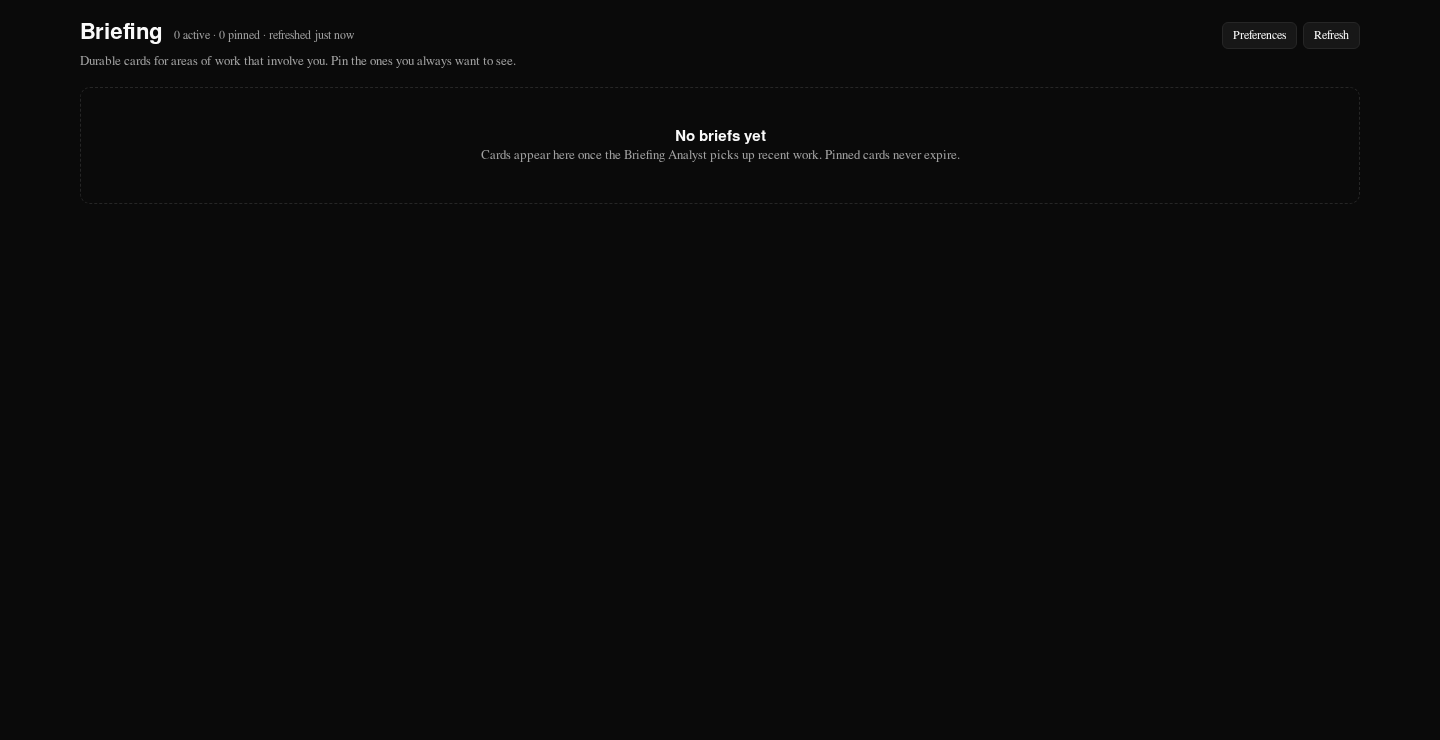
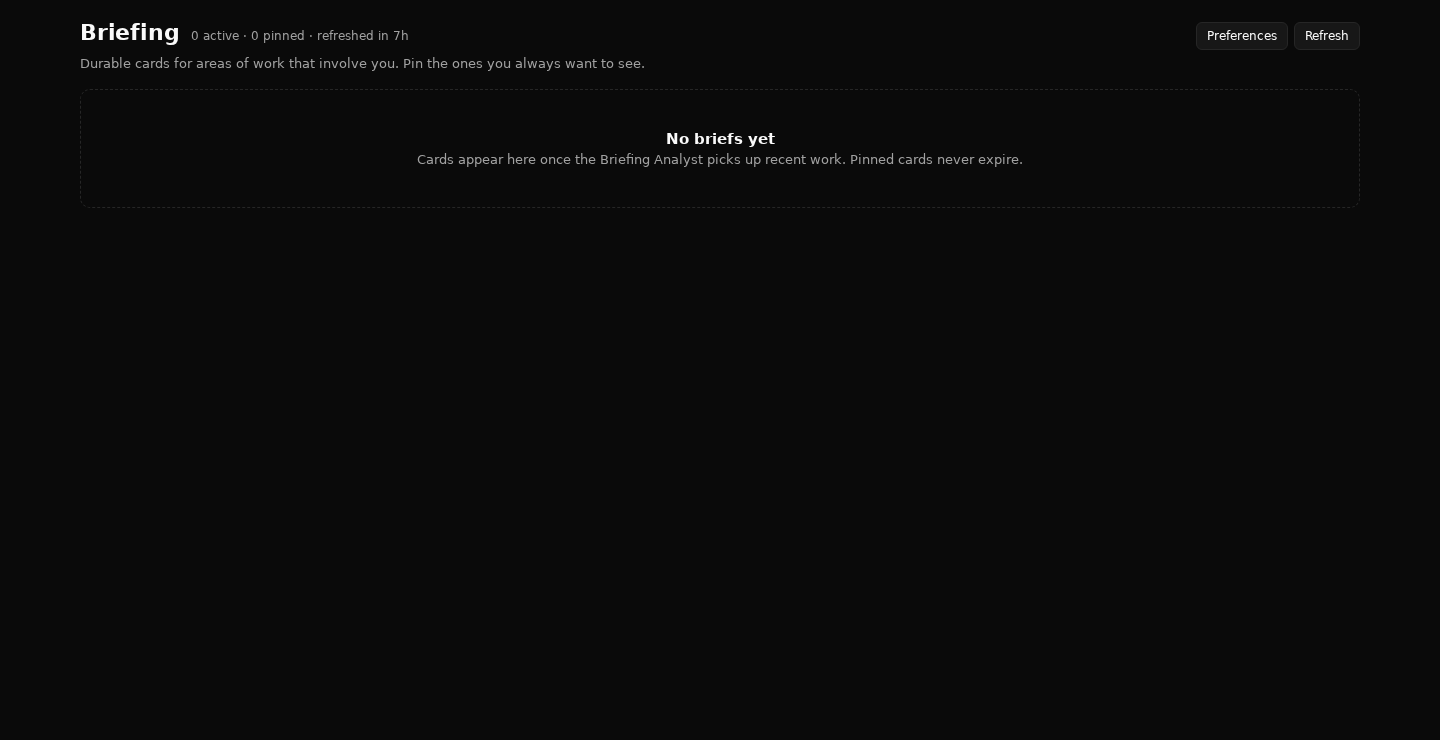
fix(briefs): make mobile section filter actually hide sections
The injected responsive stylesheet for the Briefing page tried to hide
section headers and non-active sections at <=700px, but the inline
`display: flex` on <section data-briefs-section> and its <header> beat
the attribute-selector rules on specificity. The result was that on a
real 390px render the MobileTabs toggle did nothing — every section
stayed visible.

Add `!important` to the two media-query rules so they win against the
inline styles, plus a small mobile reflow rule that drops the page-meta
line to its own row instead of orphaning the timestamp.

Also rebuild the screenshot fixture to mount the real <BriefingPage>
component (via the same SDK mock pattern the brief-card vitest already
uses) instead of hand-writing the page shell. The previous fixture
re-implemented the layout in static HTML and never rendered MobileTabs
or Legend, which masked the specificity bug and produced PNGs that
didn't match what a user actually sees.

Add briefing-page.spec.tsx as a regression guard for the chrome the
screenshot fixture exercises: MobileTabs sticky bar, Legend, the
data-mobile-hidden attribute on non-active sections, and the new header
data attributes.

Re-captured desktop, mobile, and empty-state PNGs against the real React
tree. The mobile shot now shows the All / Needs you / Live / Done tab
bar and only the active filter section.

Refs PAP-9963.

Changed region(s): [[0.0625, 0.0311, 0.4375, 0.0932], [0.3125, 0.1554, 0.6875, 0.2176], [0.8438, 0.0311, 0.9375, 0.0622]]

diff --git a/packages/plugins/plugin-briefs/tests/ui/screenshots.spec.tsx b/packages/plugins/plugin-briefs/tests/ui/screenshots.spec.tsx
@@ -5,14 +5,41 @@
  *
  * Skipped by default — set `BRIEFS_CAPTURE_SCREENSHOTS=1` to opt in.
  *
- * The flag avoids dragging Playwright into the regular fast unit-test run while
- * still letting CI / agents capture deterministic fixtures from the same view
- * components the host renders.
+ * Mounts the real `<BriefingPage>` component (the same React tree the host
+ * renders) so the captured PNGs reflect MobileTabs, Legend, and the live
+ * responsive CSS — not a hand-rolled approximation. The Paperclip plugin SDK
+ * is mocked so `usePluginData("page", …)` returns the gallery fixture.
  */
 import path from "node:path";
 import fs from "node:fs/promises";
 import { fileURLToPath, pathToFileURL } from "node:url";
 import { afterAll, describe, expect, it, vi } from "vitest";
+
+import type { BriefCard, BriefPreferences } from "../../src/contracts.js";
+import { gallery } from "./fixtures.js";
+
+type PageData = {
+  cards: BriefCard[];
+  preferences: BriefPreferences;
+  fetchedAt: string;
+};
+
+const defaultPreferences: BriefPreferences = {
+  companyId: "company-1",
+  userId: "user-1",
+  cadence: "daily",
+  retentionDays: 14,
+  doneRetentionHours: 48,
+  staleAfterDays: 7,
+  maxUnpinnedCards: 24,
+  scope: "user",
+};
+
+let mockPageData: PageData = {
+  cards: [],
+  preferences: defaultPreferences,
+  fetchedAt: "2026-05-22T10:00:00.000Z",
+};
 
 vi.mock("@paperclipai/plugin-sdk/ui", () => {
   return {
@@ -22,7 +49,12 @@ vi.mock("@paperclipai/plugin-sdk/ui", () => {
       linkProps: (to: string) => ({ href: to, onClick: () => {} }),
     }),
     usePluginAction: () => vi.fn(async () => ({ ok: true })),
-    usePluginData: () => ({ data: null, loading: false, error: null, refresh: () => {} }),
+    usePluginData: (key: string) => {
+      if (key === "page") {
+        return { data: mockPageData, loading: false, error: null, refresh: () => {} };
+      }
+      return { data: null, loading: false, error: null, refresh: () => {} };
+    },
     usePluginToast: () => vi.fn(),
     useHostLocation: () => ({ pathname: "/PAP/briefs", search: "", hash: "" }),
     usePluginStream: () => ({ events: [], lastEvent: null, connecting: false, connected: false, error: null, close: () => {} }),
@@ -30,9 +62,7 @@ vi.mock("@paperclipai/plugin-sdk/ui", () => {
 });
 
 import { renderToStaticMarkup } from "react-dom/server";
-import { BriefCardView } from "../../src/ui/app.js";
-import { groupCardsIntoSections } from "../../src/ui/view-model.js";
-import { gallery } from "./fixtures.js";
+import { BriefingPage } from "../../src/ui/app.js";
 
 const ENABLED = process.env.BRIEFS_CAPTURE_SCREENSHOTS === "1";
 
@@ -44,72 +74,53 @@ const outDir = path.resolve(repoRoot, "docs/pr-screenshots/pap-9963");
 const desktopWidth = 1440;
 const mobileWidth = 390;
 
-function staticPage({ cards, viewportWidth }: { cards: ReturnType<typeof gallery>; viewportWidth: number }) {
+const hostContext = {
+  companyId: "company-1",
+  companyPrefix: "PAP",
+  projectId: null,
+  entityId: null,
+  entityType: null,
+  userId: "user-1",
+} as const;
+
+function renderPageHtml({ cards, viewportWidth }: { cards: BriefCard[]; viewportWidth: number }): string {
+  mockPageData = { cards, preferences: defaultPreferences, fetchedAt: "2026-05-22T10:00:00.000Z" };
   const isMobile = viewportWidth < 700;
-  const sections = groupCardsIntoSections(cards);
-  const visibleSections = isMobile
-    ? sections.filter((section) => section.cards.length > 0).slice(0, 1).concat(sections.slice(1))
-    : sections;
-  const active = cards.filter((c) => !c.hidden);
-  const pinned = active.filter((c) => c.pinned).length;
+  // BriefingPage injects the responsive stylesheet via document.head on mount.
+  // SSR doesn't run that side effect, so we inline the same rules in the page
+  // <style>. Keep these in sync with the rules in src/ui/app.tsx.
+  const inlineCss = `
+    :root {
+      --background: oklch(0.145 0 0);
+      --foreground: oklch(0.985 0 0);
+      --card: oklch(0.205 0 0);
+      --border: oklch(0.269 0 0);
+      --muted-foreground: oklch(0.708 0 0);
+      --primary: oklch(0.985 0 0);
+      --primary-foreground: oklch(0.205 0 0);
+      --secondary: oklch(0.269 0 0);
+      --accent: oklch(0.269 0 0);
+    }
+    html, body { background: var(--background); color: var(--foreground); margin: 0; min-height: 100vh; }
+    body { font-family: ui-sans-serif, system-ui, -apple-system, sans-serif; }
+    a { color: inherit; }
+    @media (max-width: 700px) {
+      [data-briefs-mobile-tabs] { display: flex !important; }
+      [data-briefs-section] > header { display: none !important; }
+      [data-briefs-section][data-mobile-hidden="true"] { display: none !important; }
+      [data-briefs-grid] { grid-template-columns: 1fr !important; }
+      [data-briefs-page-header] > [data-briefs-page-meta] { flex-basis: 100% !important; order: 2 !important; }
+    }
+  `;
+  const body = renderToStaticMarkup(<BriefingPage context={hostContext as never} />);
   return `<!doctype html>
   <html lang="en">
     <head>
       <meta charset="utf-8" />
       <title>Briefing — ${isMobile ? "mobile" : "desktop"}</title>
-      <style>
-        :root {
-          --background: oklch(0.145 0 0);
-          --foreground: oklch(0.985 0 0);
-          --card: oklch(0.205 0 0);
-          --border: oklch(0.269 0 0);
-          --muted-foreground: oklch(0.708 0 0);
-          --primary: oklch(0.985 0 0);
-          --primary-foreground: oklch(0.205 0 0);
-          --secondary: oklch(0.269 0 0);
-          --accent: oklch(0.269 0 0);
-        }
-        html, body { background: var(--background); color: var(--foreground); margin: 0; min-height: 100vh; }
-        body { font-family: ui-sans-serif, system-ui, -apple-system, sans-serif; }
-        a { color: inherit; }
-        @media (max-width: 700px) {
-          [data-briefs-mobile-tabs] { display: flex !important; }
-          [data-briefs-section] > header { display: none; }
-          [data-briefs-section][data-mobile-hidden="true"] { display: none; }
-          [data-briefs-grid] { grid-template-columns: 1fr !important; }
-        }
-      </style>
+      <style>${inlineCss}</style>
     </head>
-    <body>
-      <div style="font-family: ui-sans-serif, system-ui, -apple-system, sans-serif; color: var(--foreground); padding: 20px clamp(12px, 4vw, 32px); max-width: 1280px; margin: 0 auto; min-height: 100vh;">
-        <header style="display: flex; flex-wrap: wrap; align-items: baseline; gap: 12px; margin-bottom: 6px;">
-          <h1 style="margin: 0; font-size: 22px; font-weight: 600;">Briefing</h1>
-          <div style="flex: 1; min-width: 0; font-size: 12px; color: var(--muted-foreground);">${active.length} active · ${pinned} pinned · refreshed just now</div>
-          <div style="display: flex; gap: 6px; align-items: center;">
-            <button style="padding: 6px 10px; border-radius: 6px; border: 1px solid var(--border); background: var(--card); color: var(--foreground); font-size: 12px;">Preferences</button>
-            <button style="padding: 6px 10px; border-radius: 6px; border: 1px solid var(--border); background: var(--card); color: var(--foreground); font-size: 12px;">Refresh</button>
-          </div>
-        </header>
-        <p style="margin: 0; margin-bottom: 18px; font-size: 13px; color: var(--muted-foreground);">Durable cards for areas of work that involve you. Pin the ones you always want to see.</p>
-        ${active.length === 0
-          ? `<div data-briefs-empty style="padding: 40px 24px; border: 1px dashed var(--border); border-radius: 10px; text-align: center; color: var(--muted-foreground);">
-              <div style="font-size: 15px; color: var(--foreground); font-weight: 600; margin-bottom: 4px;">No briefs yet</div>
-              <div style="font-size: 13px;">Cards appear here once the Briefing Analyst picks up recent work. Pinned cards never expire.</div>
-            </div>`
-          : visibleSections.map((section) => section.cards.length === 0 ? "" : `
-            <section data-briefs-section="${section.key}" style="display: flex; flex-direction: column; gap: 12px; margin-bottom: 24px;">
-              <header style="display: flex; align-items: center; gap: 10px;">
-                <h2 style="margin: 0; font-size: 12px; letter-spacing: 0.6px; color: var(--muted-foreground); text-transform: uppercase; font-weight: 600;">${section.label}</h2>
-                <span style="font-size: 12px; color: var(--muted-foreground);">${section.cards.length}</span>
-                <span style="flex: 1; border-bottom: 1px dashed var(--border);"></span>
-              </header>
-              <div data-briefs-grid style="display: grid; grid-template-columns: repeat(auto-fill, minmax(min(100%, 360px), 1fr)); gap: 12px;">
-                ${section.cards.map((card) => renderToStaticMarkup(<BriefCardView card={card} onChanged={() => {}} />)).join("")}
-              </div>
-            </section>
-          `).join("")}
-      </div>
-    </body>
+    <body>${body}</body>
   </html>`;
 }
 
@@ -132,9 +143,9 @@ describe.skipIf(!ENABLED)("Briefs screenshots", () => {
     const tmpDir = await fs.mkdtemp(path.join(__dirname, ".tmp-briefs-"));
     const cards = gallery();
 
-    const desktopHtml = staticPage({ cards, viewportWidth: desktopWidth });
-    const mobileHtml = staticPage({ cards, viewportWidth: mobileWidth });
-    const emptyHtml = staticPage({ cards: [], viewportWidth: desktopWidth });
+    const desktopHtml = renderPageHtml({ cards, viewportWidth: desktopWidth });
+    const mobileHtml = renderPageHtml({ cards, viewportWidth: mobileWidth });
+    const emptyHtml = renderPageHtml({ cards: [], viewportWidth: desktopWidth });
 
     const desktopFile = path.join(tmpDir, "briefing-desktop.html");
     const mobileFile = path.join(tmpDir, "briefing-mobile.html");

diff --git a/packages/plugins/plugin-briefs/tests/ui/briefing-page.spec.tsx b/packages/plugins/plugin-briefs/tests/ui/briefing-page.spec.tsx
@@ -1,0 +1,116 @@
+/**
+ * Regression tests for the Briefing page chrome — the parts the screenshot
+ * fixture used to skip (MobileTabs, Legend, responsive CSS injection).
+ *
+ * These tests served as the verification path for the UX review on PAP-9963:
+ * before the fix, the screenshot fixture hand-wrote the page shell and never
+ * exercised these components, which masked a CSS-specificity bug that broke
+ * the mobile section filter. Asserting on the real `<BriefingPage>` output
+ * keeps that gap closed.
+ */
+import { describe, expect, it, vi } from "vitest";
+
+import type { BriefCard, BriefPreferences } from "../../src/contracts.js";
+import { gallery } from "./fixtures.js";
+
+type PageData = {
+  cards: BriefCard[];
+  preferences: BriefPreferences;
+  fetchedAt: string;
+};
+
+const defaultPreferences: BriefPreferences = {
+  companyId: "company-1",
+  userId: "user-1",
+  cadence: "daily",
+  retentionDays: 14,
+  doneRetentionHours: 48,
+  staleAfterDays: 7,
+  maxUnpinnedCards: 24,
+  scope: "user",
+};
+
+let mockPageData: PageData = {
+  cards: [],
+  preferences: defaultPreferences,
+  fetchedAt: "2026-05-22T10:00:00.000Z",
+};
+
+vi.mock("@paperclipai/plugin-sdk/ui", () => {
+  return {
+    useHostNavigation: () => ({
+      resolveHref: (to: string) => to,
+      navigate: () => {},
+      linkProps: (to: string) => ({ href: to, onClick: () => {} }),
+    }),
+    usePluginAction: () => vi.fn(async () => ({ ok: true })),
+    usePluginData: (key: string) => {
+      if (key === "page") {
+        return { data: mockPageData, loading: false, error: null, refresh: () => {} };
+      }
+      return { data: null, loading: false, error: null, refresh: () => {} };
+    },
+    usePluginToast: () => vi.fn(),
+    useHostLocation: () => ({ pathname: "/PAP/briefs", search: "", hash: "" }),
+    usePluginStream: () => ({ events: [], lastEvent: null, connecting: false, connected: false, error: null, close: () => {} }),
+  };
+});
+
+import { renderToStaticMarkup } from "react-dom/server";
+import { BriefingPage } from "../../src/ui/app.js";
+
+const hostContext = {
+  companyId: "company-1",
+  companyPrefix: "PAP",
+  projectId: null,
+  entityId: null,
+  entityType: null,
+  userId: "user-1",
+} as const;
+
+function renderPage(cards: BriefCard[]): string {
+  mockPageData = { cards, preferences: defaultPreferences, fetchedAt: "2026-05-22T10:00:00.000Z" };
+  return renderToStaticMarkup(<BriefingPage context={hostContext as never} />);
+}
+
+describe("BriefingPage", () => {
+  it("renders the MobileTabs sticky bar so it appears in screenshots", () => {
+    const html = renderPage(gallery());
+    expect(html).toContain("data-briefs-mobile-tabs");
+    expect(html).toMatch(/aria-label="Briefing sections"/);
+    // All four tabs must be present: All / Needs you / Live / Done.
+    expect(html).toContain(">All<");
+    expect(html).toContain(">Needs you<");
+    expect(html).toContain(">Live<");
+    expect(html).toContain(">Done<");
+  });
+
+  it("renders the Legend below the section grid", () => {
+    const html = renderPage(gallery());
+    expect(html).toContain("data-briefs-legend");
+  });
+
+  it("marks non-active sections with data-mobile-hidden so the CSS filter has a target", () => {
+    const html = renderPage(gallery());
+    // The default mobile tab is "attention", so every other section must be
+    // tagged hidden. Without the CSS `!important` fix, this attribute existed
+    // but did nothing — the test still guards the data contract.
+    expect(html).toContain('data-briefs-section="live"');
+    expect(html).toContain('data-briefs-section="settled"');
+    expect(html).toMatch(/data-briefs-section="live"[^>]*data-mobile-hidden="true"/);
+    expect(html).toMatch(/data-briefs-section="settled"[^>]*data-mobile-hidden="true"/);
+  });
+
+  it("tags the page header meta block so mobile reflow CSS can reorder it", () => {
+    const html = renderPage(gallery());
+    expect(html).toContain("data-briefs-page-header");
+    expect(html).toContain("data-briefs-page-meta");
+  });
+
+  it("renders the empty state without rendering MobileTabs or sections", () => {
+    const html = renderPage([]);
+    expect(html).not.toContain("data-briefs-mobile-tabs");
+    expect(html).not.toContain("data-briefs-section");
+    expect(html).toContain("No briefs yet");
+  });
+});

diff --git a/packages/plugins/plugin-briefs/src/ui/app.tsx b/packages/plugins/plugin-briefs/src/ui/app.tsx
@@ -182,9 +182,9 @@ function PageShell({ children, meta, action, preferences }: {
 }) {
   return (
     <div style={{ fontFamily: fontStack, color: tokens.fg, padding: "20px clamp(12px, 4vw, 32px)", maxWidth: 1280, margin: "0 auto", minHeight: "100vh" }}>
-      <header style={{ display: "flex", flexWrap: "wrap", alignItems: "baseline", gap: 12, marginBottom: 6 }}>
+      <header data-briefs-page-header style={{ display: "flex", flexWrap: "wrap", alignItems: "baseline", gap: 12, marginBottom: 6 }}>
         <h1 style={{ margin: 0, fontSize: 22, fontWeight: 600, letterSpacing: -0.2 }}>Briefing</h1>
-        <div style={{ flex: 1, minWidth: 0, fontSize: 12, color: tokens.muted, overflow: "hidden", textOverflow: "ellipsis" }}>{meta}</div>
+        <div data-briefs-page-meta style={{ flex: 1, minWidth: 0, fontSize: 12, color: tokens.muted, overflow: "hidden", textOverflow: "ellipsis" }}>{meta}</div>
         <div style={{ display: "flex", gap: 6, alignItems: "center" }}>
           {preferences}
           {action}
@@ -946,12 +946,16 @@ function ErrorPanel({ message, onRetry }: { message: string; onRetry: () => void
 if (typeof document !== "undefined" && !document.getElementById("briefs-plugin-styles")) {
   const style = document.createElement("style");
   style.id = "briefs-plugin-styles";
+  // !important is required so these rules win against the inline
+  // style attributes set on <section data-briefs-section> and its <header>;
+  // attribute-selector specificity (0,1,1) loses to inline (1,0,0,0) otherwise.
   style.textContent = `
     @media (max-width: 700px) {
       [data-briefs-mobile-tabs] { display: flex !important; }
-      [data-briefs-section] > header { display: none; }
-      [data-briefs-section][data-mobile-hidden="true"] { display: none; }
+      [data-briefs-section] > header { display: none !important; }
+      [data-briefs-section][data-mobile-hidden="true"] { display: none !important; }
       [data-briefs-grid] { grid-template-columns: 1fr !important; }
+      [data-briefs-page-header] > [data-briefs-page-meta] { flex-basis: 100% !important; order: 2 !important; }
     }
   `;
   document.head.appendChild(style);